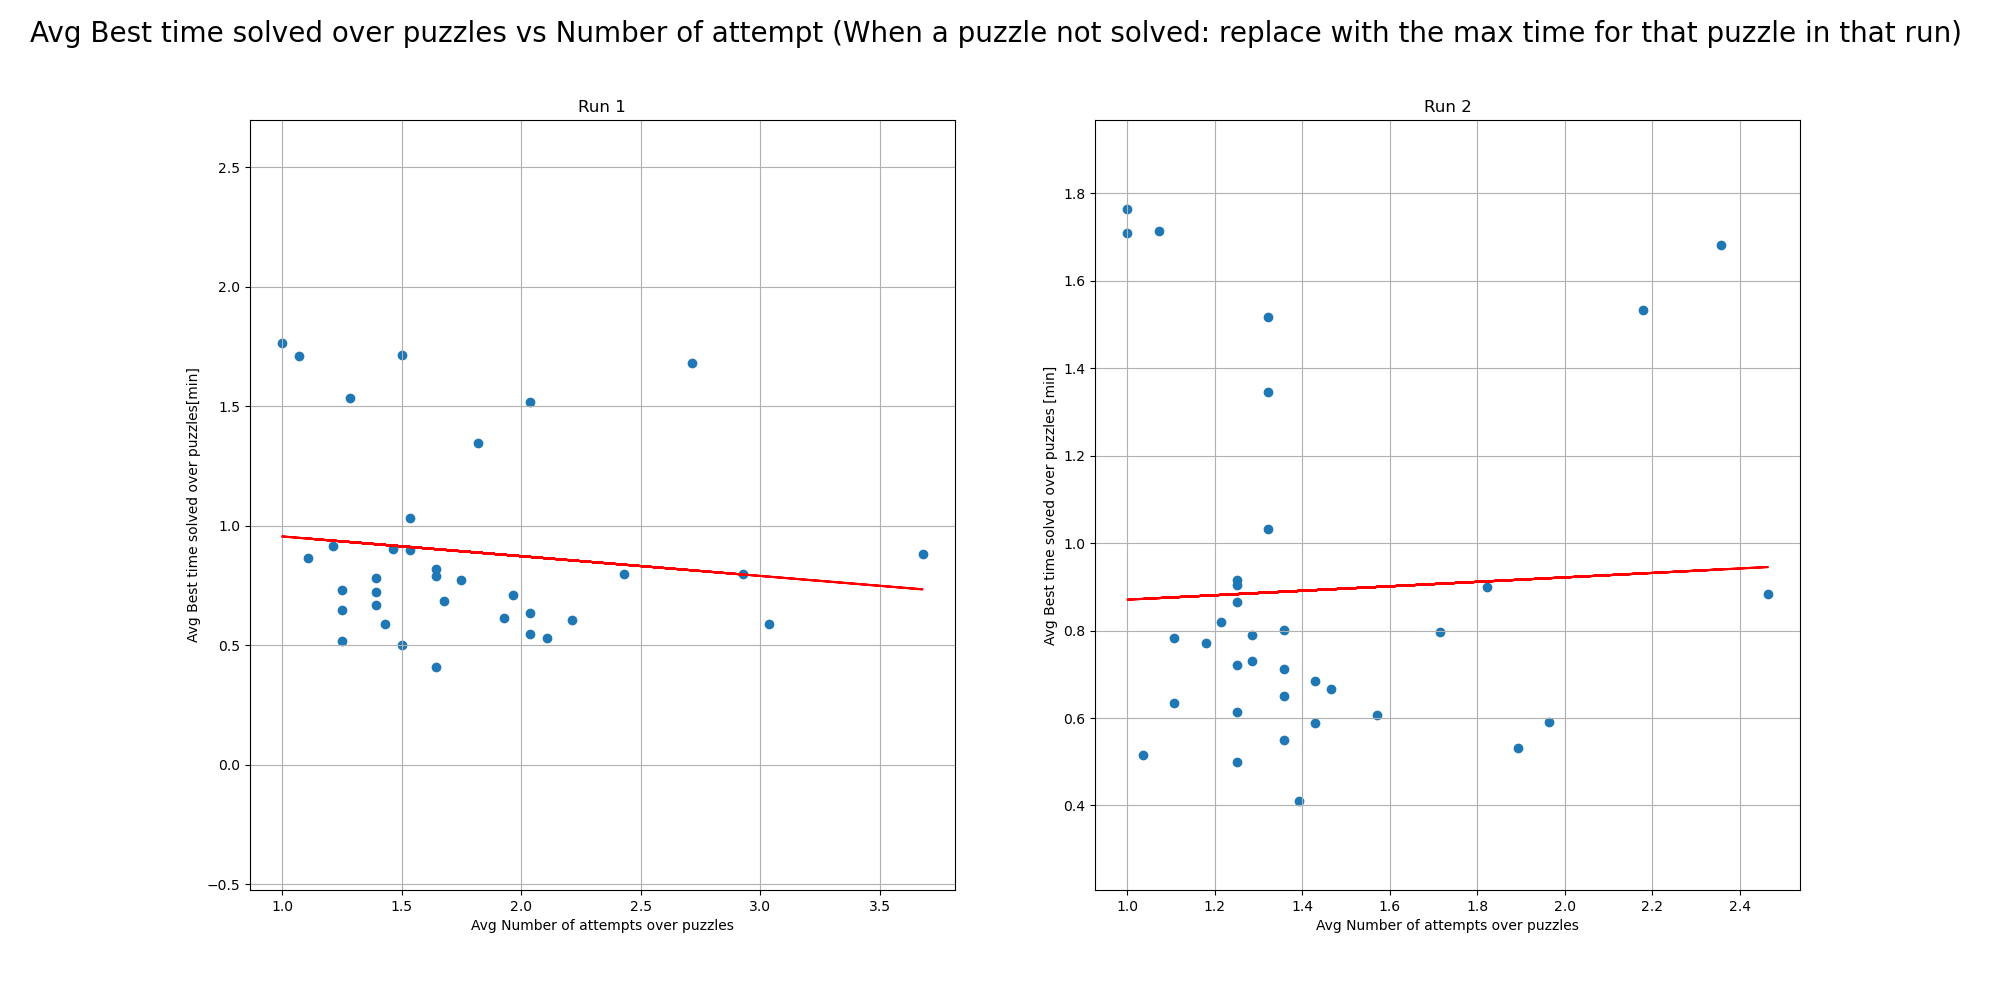
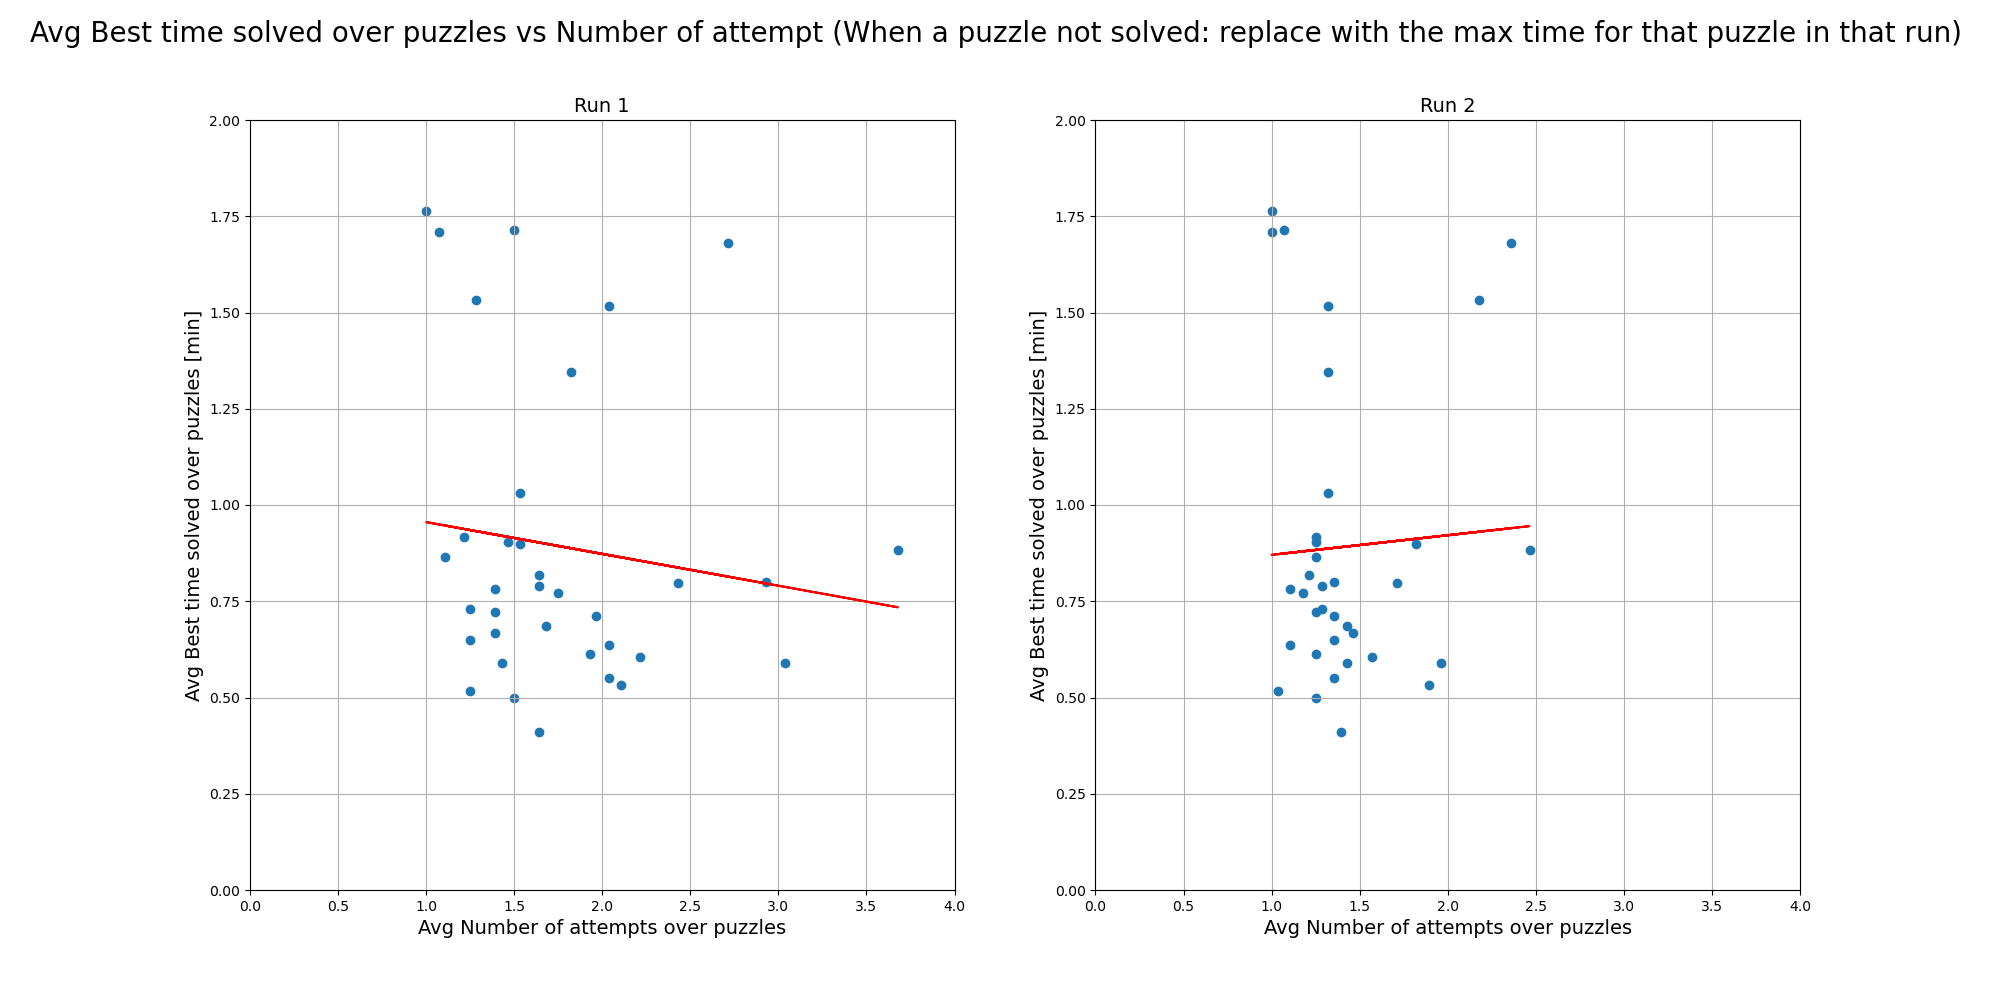
set the same scale for both timevsattemot plots

diff --git a/SRC/listdata.py b/SRC/listdata.py
@@ -1,8 +1,36 @@
+"""
+This script processes data related to puzzle-solving attempts by participants and generates visualizations 
+and summary statistics. It performs the following tasks:
+1. Extracts participant, run, puzzle ID, and attempt information from filenames using regular expressions.
+2. Organizes the extracted data into a pandas DataFrame, associating puzzle files with corresponding frame files.
+3. Computes the number of attempts for each participant and puzzle across two runs.
+4. Generates two matrices (`sol_matrix1` and `sol_matrix2`) representing the number of attempts for each 
+    participant-puzzle combination in Run 1 and Run 2, respectively.
+5. Saves the matrices and summary statistics (row and column averages) as CSV files.
+6. Creates a visualization of the attempt distribution for both runs using heatmaps and bar charts.
+7. Saves the visualization as a PNG file.
+Dependencies:
+- re: For regular expression matching.
+- os: For file and directory operations.
+- pandas: For data manipulation and analysis.
+- numpy: For numerical computations.
+- matplotlib: For data visualization.
+Output:
+- A CSV file (`df.csv`) containing the organized data.
+- Two CSV files (`sol_matrix1.csv` and `sol_matrix2.csv`) containing the attempt matrices.
+- Two CSV files (`rawsum1.csv` and `rawsum2.csv`) containing row averages for each run.
+- A PNG file (`Distribution.png`) visualizing the attempt distribution.
+Usage:
+- Ensure the input data is organized in the specified folder structure (`Data/Pilot{}/Frames/` and `Data/Pilot{}/Ego-based/`).
+- Run the script to process the data and generate outputs.
+"""
+
 import re
 import os
 import pandas as pd
 import numpy as np
 import matplotlib.pyplot as plt
+
 
 #number of attempts at each run for each participant and puzzle is computed and saved in a csv file and visualized in this script
 

diff --git a/SRC/plotAttempTIme.py b/SRC/plotAttempTIme.py
@@ -13,7 +13,7 @@ df= pd.read_csv("./Data/df.csv")
 unique_participants = df["participant_id"].unique().tolist()
 unique_participants= np.array(unique_participants).astype(int)
 
-print("unique_participants", unique_participants)
+# print("unique_participants", unique_participants)
 
 #turn the data into an array
 data_1 = data_1.to_numpy()
@@ -35,13 +35,13 @@ plt.suptitle('Avg Best time solved over puzzles vs Number of attempt (When a puz
 
 plt.subplot(1, 2, 1)
 plt.scatter(-attempts_1, data_1)
-plt.xlabel('Avg Number of attempts over puzzles')
-plt.ylabel('Avg Best time solved over puzzles[min]')
-plt.title('Run 1')
+plt.xlabel('Avg Number of attempts over puzzles', fontsize=14)
+plt.ylabel('Avg Best time solved over puzzles [min]', fontsize=14)
+plt.title('Run 1', fontsize=14)
 plt.grid()
 #make the x and y same scale
-plt.axis('equal')
-
+plt.axis([0, 4, 0, 2])
+# plt.axis('equal')
 #add a regression line
 # Compute and add a regression line
 m, b = np.polyfit(-attempts_1.flatten(), data_1.flatten(), 1)
@@ -49,16 +49,18 @@ plt.plot(-attempts_1, m * -attempts_1 + b, color='red')
 
 plt.subplot(1, 2, 2)
 plt.scatter(-attempts_2, data_2)
-plt.xlabel('Avg Number of attempts over puzzles')
-plt.ylabel('Avg Best time solved over puzzles [min]')
-plt.title('Run 2')
+plt.xlabel('Avg Number of attempts over puzzles', fontsize=14)
+plt.ylabel('Avg Best time solved over puzzles [min]', fontsize=14)
+plt.title('Run 2', fontsize=14)
 plt.grid()
 #make the x and y same scale
-plt.axis('equal')
+# plt.axis('equal')
+plt.axis([0, 4, 0, 2])
 #add a regression line
 # Compute and add a regression line
 m, b = np.polyfit(-attempts_2.flatten(), data_2.flatten(), 1)
 plt.plot(-attempts_2, m * -attempts_2 + b, color='red')
+
 
 # Compute the Euclidean distance from the origin for each point
 distances_1 = np.sqrt(data_1**2 + attempts_1**2)
